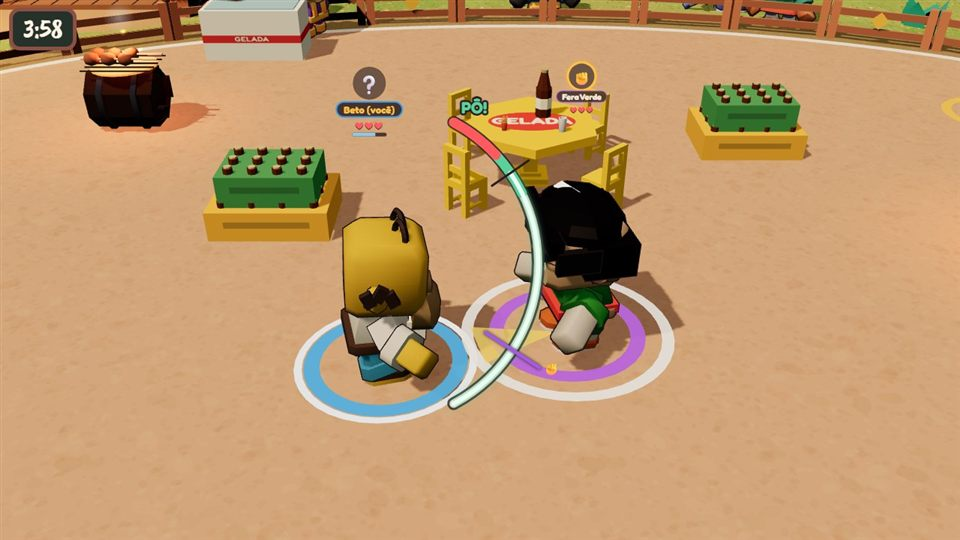
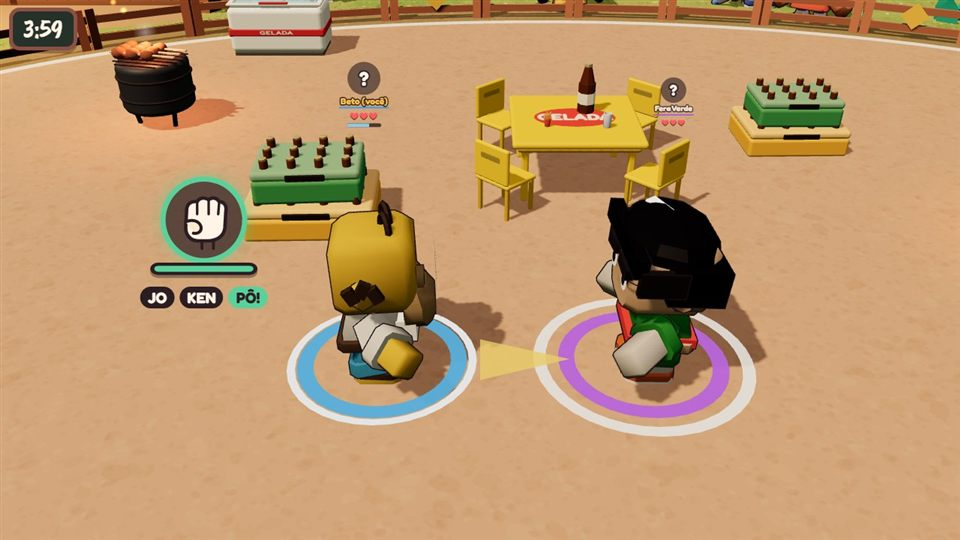
QTE com as mãos: punho batendo na mesinha no Jo-Ken-Pô, com aro amarelo/verde/vermelho no lugar da barra

diff --git a/packages/client/src/three/Game3D.ts b/packages/client/src/three/Game3D.ts
@@ -1,8 +1,9 @@
 import * as THREE from 'three';
-import { qteEnd, type CharacterId, type ExchangeEvent, type GameEvent, type PlayerView, type Rps, type Snapshot } from '@ppt/shared';
+import { type CharacterId, type ExchangeEvent, type GameEvent, type PlayerView, type Rps, type Snapshot } from '@ppt/shared';
 import type { GameConnection } from '../net/connection';
 import { Hud } from '../ui/hud';
-import { symbolPaths, symbolSvg } from '../ui/symbolIcons';
+import { symbolSvg } from '../ui/symbolIcons';
+import { BEAT_MS, QteHands } from '../ui/qteHands';
 import { toWorld } from './assets';
 import { buildArena3D, type ArenaHandles, SKY } from './arena3d';
 import { Character3D, makeBottle } from './character3d';
@@ -14,9 +15,6 @@ import { Ambient3D } from './ambient3d';
 import { MATCH_FOV, MATCH_TARGET, matchCameraPose } from './matchCamera';
 
 const HAND_COLOR: Record<CharacterId, number> = { fera: 0xf3ece8, principe: 0xf7f5ef, panca: 0xf0bf8f, sonolento: 0xf2c6a0 };
-/** Batidas do Jo-Ken-Pô: o "PÔ!" cai exatamente no impacto (QTE perfeito). */
-const BEAT_MS = 400;
-const CHANT = ['JO', 'KEN', 'PÔ!'];
 const REVEAL_MS = 1300;
 const SYM_BY_CODE: Record<string, Rps> = { Digit1: 'rock', Digit2: 'paper', Digit3: 'scissors', KeyJ: 'rock', KeyK: 'paper', KeyL: 'scissors', Numpad1: 'rock', Numpad2: 'paper', Numpad3: 'scissors' };
 
@@ -68,7 +66,7 @@ export class Game3D {
   private readonly aims = new Map<string, THREE.Group>();
   private readonly selRing: THREE.Mesh;
   private readonly beer: THREE.Group;
-  private readonly qte: SVGSVGElement;
+  private readonly qte: QteHands;
   /** Instante (tempo do servidor) em que VOCÊ apertou a Última Palavra — para congelar a barra ali. */
   private localLock: number | null = null;
   private readonly center = document.createElement('div');
@@ -126,13 +124,8 @@ export class Game3D {
     this.beer.position.copy(this.arena.beerSpot);
     this.scene.add(this.beer);
 
-    this.qte = document.createElementNS('http://www.w3.org/2000/svg', 'svg');
-    this.qte.setAttribute('class', 'qte3d');
-    // Barra curva estilo "shot meter": trilho (CEDO), fatia verde (PERFEITO), fatia vermelha (ROUBOU), enchimento,
-    // marca de quando o adversário botou (o malandro olha isso) e rótulo.
-    this.qte.innerHTML =
-      '<path class="edge"/><path class="track"/><path class="perf"/><path class="red"/><path class="fill"/><line class="tick"/><line class="opp"/><g class="oppsym"></g><text class="lbl"></text>';
-    this.overlay.appendChild(this.qte);
+    // QTE com as mãos (punho batendo no ritmo do Jo-Ken-Pô) ao lado do seu personagem.
+    this.qte = new QteHands(this.overlay);
     this.center.className = 'center3d';
     this.timer.className = 'timer3d';
     this.beerHint.className = 'beerhint3d';
@@ -798,104 +791,35 @@ export class Game3D {
     }
   }
 
-  /**
-   * Barra do QTE ao lado do seu personagem (estilo "shot meter"): enche de baixo para cima no ritmo do
-   * Jo-Ken-Pô e chega na fatia verde exatamente no "PÔ!" (instante do impacto). Ao apertar, congela e mostra a nota.
-   */
+  /** QTE com as mãos ao lado do seu personagem (ver ui/qteHands.ts). */
   private updateQte(snap: Snapshot, now: number, me: PlayerView | undefined): void {
-    const svg = this.qte;
-    svg.style.display = 'none';
     if (!me?.alive || !me.holding || me.impactAt === null) {
       this.localLock = null;
+      this.qte.hide();
       return;
     }
-    const { qte, attack } = this.conn.config;
-    const T = me.impactAt;
     const opp = snap.players.find((p) => p.id === me.targetId);
-
-    // Tamanho e posição: à direita do corpo, proporcional ao zoom da câmera.
-    const c = this.screen(this.world(me.x, me.y, 0.75));
-    const edge = this.screen(this.world(me.x, me.y, 0.75).add(new THREE.Vector3(0.75, 0, 0)));
-    const r = Math.max(46, Math.abs(edge.x - c.x) * 1.25);
-    svg.style.display = 'block';
-    svg.style.transform = `translate(${c.x}px, ${c.y}px)`;
-
-    // Tempo → posição na barra (0 = base, 1 = topo). Do início da preparação até o fim da janela.
-    const t0 = T - attack.windupMs;
-    const t1 = qteEnd(T, qte);
-    const u = (t: number) => Math.max(0, Math.min(1, (t - t0) / (t1 - t0)));
-    const A0 = (62 * Math.PI) / 180; // base (embaixo, à direita)
-    const A1 = (-62 * Math.PI) / 180; // topo
-    const pt = (k: number) => {
-      const a = A0 + (A1 - A0) * k;
-      return `${(Math.cos(a) * r).toFixed(1)} ${(Math.sin(a) * r).toFixed(1)}`;
-    };
-    const arc = (k0: number, k1: number) => (k1 <= k0 ? '' : `M ${pt(k0)} A ${r} ${r} 0 0 0 ${pt(k1)}`);
-    const set = (cls: string, d: string) => (svg.querySelector(`.${cls}`) as SVGPathElement).setAttribute('d', d);
-    set('edge', arc(0, 1));
-    set('track', arc(0, 1));
-    set('perf', arc(u(T - qte.greenBeforeMs), u(T + qte.greenAfterMs)));
-    set('red', arc(u(T + qte.greenAfterMs), 1));
-
-    // Enchimento: até agora, ou congelado onde você apertou.
-    const lockAt = this.localLock ?? me.pickedAt;
-    const fillTo = u(lockAt ?? now);
-    const fill = svg.querySelector('.fill') as SVGPathElement;
-    fill.setAttribute('d', arc(0, Math.max(0.001, fillTo)));
-    const lbl = svg.querySelector('.lbl') as SVGTextElement;
-    const tick = svg.querySelector('.tick') as SVGLineElement;
-    const [tx, ty] = pt(u(T)).split(' ').map(Number);
-    tick.setAttribute('x1', String(tx * 0.86));
-    tick.setAttribute('y1', String(ty * 0.86));
-    tick.setAttribute('x2', String(tx * 1.14));
-    tick.setAttribute('y2', String(ty * 1.14));
-    const [lx, ly] = pt(1).split(' ').map(Number);
-    lbl.setAttribute('x', String(lx + 10));
-    lbl.setAttribute('y', String(ly - 12));
-    // Quando o adversário botou: risquinho na barra + o símbolo dele (é isso que o malandro espera para ver).
-    const oppLine = svg.querySelector('.opp') as SVGLineElement;
-    const oppSym = svg.querySelector('.oppsym') as SVGGElement;
-    if (opp?.symbol && opp.pickedAt !== null) {
-      const [ox, oy] = pt(u(opp.pickedAt)).split(' ').map(Number);
-      oppLine.setAttribute('x1', String(ox * 0.8));
-      oppLine.setAttribute('y1', String(oy * 0.8));
-      oppLine.setAttribute('x2', String(ox * 1.2));
-      oppLine.setAttribute('y2', String(oy * 1.2));
-      oppLine.style.stroke = hex(opp.color);
-      // Ícone do símbolo dele, pequeno, logo depois do risquinho (desenho 64×64 reduzido).
-      oppSym.setAttribute('transform', `translate(${(ox * 1.2 + 2).toFixed(1)} ${(oy * 1.2 - 11).toFixed(1)}) scale(0.36)`);
-      if (oppSym.dataset.sym !== opp.symbol) {
-        oppSym.dataset.sym = opp.symbol;
-        oppSym.innerHTML = symbolPaths(opp.symbol);
-      }
-      oppLine.style.display = oppSym.style.display = '';
-    } else oppLine.style.display = oppSym.style.display = 'none';
-
-    let state: string;
-    let text: string;
-    if (lockAt !== null) {
-      // Mesma regra do servidor (gradePick): antes do verde = cedo; verde = perfeito; vermelho = roubou.
-      const d = lockAt - T;
-      state = d < -qte.greenBeforeMs ? 'good' : d <= qte.greenAfterMs ? 'perfect' : 'fail';
-      // Sem texto depois de apertar: a cor do enchimento já mostra (verde, amarelo ou vermelho).
-      text = '';
-    } else if (now > t1) {
-      state = 'fail';
-      text = '';
-    } else if (now > T + qte.greenAfterMs) {
-      state = 'fail live';
-      text = 'VAI DAR ROUBO!';
-    } else {
-      // Jo-Ken-Pô pequeno, no rótulo da barra.
-      const dt = T - now;
-      state = dt <= qte.greenBeforeMs ? 'perfect live' : 'early live';
-      const beat = Math.round(dt / BEAT_MS); // 2 = JO, 1 = KEN, 0 = PÔ!
-      text = dt <= qte.greenBeforeMs ? CHANT[2] : beat >= 0 && beat <= 2 ? CHANT[2 - beat] : '';
-    }
-    fill.setAttribute('class', `fill ${state}`);
-    lbl.setAttribute('class', `lbl ${state}`);
-    lbl.textContent = text;
+    // À direita do corpo, no tamanho do zoom da câmera.
+    const c = this.screen(this.world(me.x, me.y, 0.9));
+    const edge = this.screen(this.world(me.x, me.y, 0.9).add(new THREE.Vector3(0.75, 0, 0)));
+    const px = Math.abs(edge.x - c.x);
+    // Do lado oposto ao adversário, para não ficar no meio da briga.
+    const oppX = opp ? this.screen(this.world(opp.x, opp.y, 0.9)).x : c.x - 1;
+    const left = oppX > c.x;
+    this.qte.update({
+      x: c.x + (left ? -1 : 1) * px * 0.85,
+      y: c.y,
+      left,
+      scale: Math.max(0.9, Math.min(1.7, px / 48)),
+      now,
+      impactAt: me.impactAt,
+      pickedAt: this.localLock ?? me.pickedAt,
+      symbol: me.symbol,
+      opp: opp ? { symbol: opp.symbol, pickedAt: opp.pickedAt } : null,
+      cfg: this.conn.config,
+    });
   }
+
 }
 
 function easeOutBack(t: number): number {

diff --git a/packages/client/src/ui/qteHands.ts b/packages/client/src/ui/qteHands.ts
@@ -1,0 +1,114 @@
+import { gradePick, qteEnd, type GameConfig, type Grade, type Rps } from '@ppt/shared';
+import { symbolSvg } from './symbolIcons';
+
+/** Batidas do Jo-Ken-Pô: o punho bate na mesa em T − 800 (JO), T − 400 (KEN) e T (PÔ!). */
+export const BEAT_MS = 400;
+
+/** Punho de desenho (luva clara com contorno escuro), visto de lado, batendo para baixo. */
+const FIST = `<svg viewBox="0 0 64 64" aria-hidden="true">
+  <path d="M14 22 C14 15 19 12 25 13 C27 9 33 8 37 11 C40 8 46 9 48 13 C53 13 56 17 55 23 L54 40 C53 49 46 54 36 54 L26 54 C18 54 13 48 13 40 Z" fill="#fff4e6" stroke="#2b1d22" stroke-width="3.6" stroke-linejoin="round"/>
+  <path d="M25 14 L25 26 M37 12 L37 26 M48 14 L47 26" fill="none" stroke="#2b1d22" stroke-width="2.6" stroke-linecap="round"/>
+  <path d="M13 34 C20 31 27 33 29 39 C30 44 26 47 21 46" fill="#ffe9cf" stroke="#2b1d22" stroke-width="3.2" stroke-linejoin="round" stroke-linecap="round"/>
+  <path d="M30 54 L30 62 M42 54 L42 62" stroke="#2b1d22" stroke-width="3" stroke-linecap="round"/>
+</svg>`;
+
+type Zone = 'early' | 'green' | 'red';
+
+/**
+ * QTE com as mãos (v0.14, no lugar da barra curva): ao lado do seu personagem, um punho sobe e desce no ritmo
+ * do JO… KEN… PÔ! e bate numa mesinha. A cor da mesinha e do aro do punho mostra a faixa da malandragem:
+ * amarelo = cedo (o outro vê sua mão), verde = PÔ! (golpe final se ganhar), vermelho = pego roubando.
+ * Ao apertar, o punho vira o símbolo que você botou. O símbolo do adversário aparece no cantinho assim que ele bota.
+ */
+export class QteHands {
+  readonly el = document.createElement('div');
+  private readonly fist: HTMLElement;
+  private readonly table: HTMLElement;
+  private readonly beats: HTMLElement[];
+  private readonly opp: HTMLElement;
+  private shownKey = '';
+  private shownOpp: Rps | null = null;
+
+  constructor(parent: HTMLElement) {
+    this.el.className = 'qhand';
+    this.el.innerHTML = `
+      <div class="qh-opp"></div>
+      <div class="qh-stage"><div class="qh-fist"></div><div class="qh-table"></div></div>
+      <div class="qh-beats"><span>JO</span><span>KEN</span><span>PÔ!</span></div>`;
+    parent.appendChild(this.el);
+    this.fist = this.el.querySelector('.qh-fist')!;
+    this.table = this.el.querySelector('.qh-table')!;
+    this.beats = [...this.el.querySelectorAll<HTMLElement>('.qh-beats span')];
+    this.opp = this.el.querySelector('.qh-opp')!;
+  }
+
+  hide(): void {
+    this.el.style.display = 'none';
+    this.shownKey = '';
+  }
+
+  /**
+   * `x, y` = canto do personagem na tela; `scale` acompanha o zoom da câmera.
+   * `pickedAt` = quando você apertou (local, para responder na hora) ou null.
+   */
+  update(o: {
+    x: number;
+    y: number;
+    /** Fica à esquerda do ponto (o adversário está à direita). */
+    left: boolean;
+    scale: number;
+    now: number;
+    impactAt: number;
+    pickedAt: number | null;
+    symbol: Rps | null;
+    opp: { symbol: Rps | null; pickedAt: number | null } | null;
+    cfg: GameConfig;
+  }): void {
+    const { qte } = o.cfg;
+    const T = o.impactAt;
+    const end = qteEnd(T, qte);
+    this.el.style.display = '';
+    this.el.style.transform = `translate(${o.x}px, ${o.y}px) scale(${o.scale.toFixed(3)})`;
+    this.el.classList.toggle('left', o.left);
+
+    // Faixa atual (ou a nota de quando você apertou).
+    const at = o.pickedAt ?? o.now;
+    const d = at - T;
+    const zone: Zone = d < -qte.greenBeforeMs ? 'early' : d <= qte.greenAfterMs ? 'green' : 'red';
+    const grade: Grade | null = o.pickedAt !== null ? gradePick(o.pickedAt, T, qte) : o.now > end ? 'fail' : null;
+    this.el.dataset.zone = grade ? (grade === 'perfect' ? 'green' : grade === 'good' ? 'early' : 'red') : zone;
+    this.el.classList.toggle('done', grade !== null);
+
+    // Punho: sobe na preparação e bate na mesa em cada batida (JO, KEN, PÔ!); depois do PÔ! fica em cima, tremendo.
+    let lift: number;
+    const dt = T - o.now;
+    if (grade !== null) lift = 0.15;
+    else if (dt > BEAT_MS * 2 + BEAT_MS / 2) lift = 1 - Math.min(1, Math.max(0, (dt - BEAT_MS * 2.5) / 300)) * 0.4;
+    else if (dt >= 0) {
+      const k = (((dt % BEAT_MS) + BEAT_MS) % BEAT_MS) / BEAT_MS;
+      lift = Math.sin(k * Math.PI);
+    } else lift = Math.min(1, -dt / 120) * 0.35 + Math.sin(o.now / 25) * 0.04;
+    this.fist.style.transform = `translateY(${(-lift * 34).toFixed(1)}px)`;
+
+    // O punho vira o símbolo que você botou (ou "?" se a barra acabou sem nada).
+    const key = o.pickedAt !== null && o.symbol ? o.symbol : grade === 'fail' ? 'none' : 'fist';
+    if (key !== this.shownKey) {
+      this.shownKey = key;
+      this.fist.innerHTML = key === 'fist' ? FIST : key === 'none' ? '<b class="qh-none">?</b>' : symbolSvg(key as Rps);
+      this.fist.classList.toggle('picked', key !== 'fist');
+    }
+
+    // Batidas acendendo: JO e KEN quando passam, PÔ! na entrada do verde.
+    const lit = [o.now >= T - 2 * BEAT_MS, o.now >= T - BEAT_MS, o.now >= T - qte.greenBeforeMs];
+    this.beats.forEach((b, i) => b.classList.toggle('on', lit[i]));
+    // Mesinha pisca na batida.
+    this.table.classList.toggle('hit', grade === null && lift < 0.15);
+
+    // Símbolo do adversário (se ele já botou): é isso que o malandro espera para ver.
+    const os = o.opp?.symbol ?? null;
+    if (os !== this.shownOpp) {
+      this.shownOpp = os;
+      this.opp.innerHTML = os ? symbolSvg(os) : '';
+    }
+  }
+}

diff --git a/packages/client/src/style.css b/packages/client/src/style.css
@@ -162,29 +162,33 @@ kbd {
 .menulabel3d:empty { display: none; }
 .menulabel3d.me { background: var(--accent); color: #2b1d22; border-color: #2b1d22; }
 
-.qte3d { position: absolute; left: 0; top: 0; width: 1px; height: 1px; overflow: visible; }
-.qte3d > path, .qte3d > line { fill: none; stroke-linecap: round; }
-.qte3d .edge { stroke: #2b1d22; stroke-width: 17; opacity: .85; }
-.qte3d .track { stroke: #fff4e6; stroke-width: 11; opacity: .9; }
-/* v0.11: trilho = CEDO (o outro vê sua mão), verde = PERFEITO, vermelho = ROUBOU. */
-.qte3d .red { stroke: var(--bad); stroke-width: 13; }
-.qte3d .opp { stroke-width: 5; stroke-linecap: round; filter: drop-shadow(0 0 2px #2b1d22); }
-.qte3d .oppsym { filter: drop-shadow(0 1px 0 #2b1d22); }
-.qte3d .lbl.fail.live { fill: var(--bad); animation: qte-blink .25s steps(2) infinite; }
-@keyframes qte-blink { 50% { opacity: .35; } }
-.qte3d .perf { stroke: var(--good); stroke-width: 13; }
-.qte3d .tick { stroke: #2b1d22; stroke-width: 3; }
-.qte3d .fill { stroke: #ffffff; stroke-width: 6; filter: drop-shadow(0 0 3px #fff8); }
-.qte3d .fill.window { stroke: #fffbe9; }
-.qte3d .fill.perfect { stroke: #e9fff3; filter: drop-shadow(0 0 6px var(--good)); }
-.qte3d .fill.good:not(.live) { stroke: #ffe39a; filter: drop-shadow(0 0 5px var(--accent)); }
-.qte3d .fill.perfect:not(.live) { stroke: #b8ffd9; filter: drop-shadow(0 0 8px var(--good)); }
-.qte3d .fill.fail { stroke: var(--bad); filter: none; }
-.qte3d .lbl { font-weight: 700; font-size: 18px; fill: #fff4e6; stroke: #2b1d22; stroke-width: 5px; paint-order: stroke; }
-.qte3d .lbl.window { fill: var(--accent); }
-.qte3d .lbl.perfect { fill: var(--good); font-size: 22px; }
-.qte3d .lbl.good { fill: var(--accent); }
-.qte3d .lbl.fail { fill: var(--bad); }
+/* ---------- QTE com as mãos (v0.14): punho batendo no ritmo do Jo-Ken-Pô ---------- */
+.qhand { position: absolute; left: 0; top: 0; width: 86px; translate: 0 -50%; transform-origin: 0 50%; display: flex; flex-direction: column; align-items: center; gap: 4px;
+  --zone: var(--accent); pointer-events: none; }
+.qhand.left { translate: -100% -50%; transform-origin: 100% 50%; }
+.qhand.left .qh-opp { right: auto; left: -30px; }
+.qhand[data-zone="green"] { --zone: var(--good); }
+.qhand[data-zone="red"] { --zone: var(--bad); }
+.qh-stage { position: relative; width: 86px; height: 92px; }
+.qh-fist { position: absolute; left: 13px; bottom: 16px; width: 60px; height: 60px; border-radius: 50%; display: grid; place-items: center;
+  background: #2b1d22b3; box-shadow: 0 0 0 4px var(--zone), 0 0 14px var(--zone); transition: box-shadow .12s; }
+.qh-fist svg { width: 48px; height: 48px; overflow: visible; }
+.qh-fist.picked { animation: qh-pop .3s cubic-bezier(.2, 1.6, .4, 1); }
+.qh-none { font-size: 34px; color: #fff4e6; -webkit-text-stroke: 5px #2b1d22; paint-order: stroke fill; }
+@keyframes qh-pop { from { scale: .5; } }
+.qh-table { position: absolute; left: 4px; right: 4px; bottom: 4px; height: 12px; border-radius: 6px; background: var(--zone); border: 3px solid #2b1d22;
+  box-shadow: 0 3px 0 #0005; transition: background .12s; }
+.qh-table.hit { scale: 1.08 .8; }
+.qh-beats { display: flex; gap: 4px; }
+.qh-beats span { font-size: 12px; font-weight: 700; padding: 1px 6px; border-radius: 999px; color: #fff4e6; background: #2b1d22b3; opacity: .45;
+  -webkit-text-stroke: 0; transition: opacity .1s, background .1s; }
+.qh-beats span.on { opacity: 1; background: #2b1d22; }
+.qh-beats span:last-child.on { background: var(--good); color: #2b1d22; }
+.qhand.done .qh-beats { opacity: .5; }
+.qh-opp { position: absolute; right: -30px; top: -6px; width: 34px; height: 34px; }
+.qh-opp:not(:empty) { animation: qh-pop .3s cubic-bezier(.2, 1.6, .4, 1); filter: drop-shadow(0 2px 0 #0006); }
+.qh-opp:not(:empty)::before { content: 'ele:'; position: absolute; top: -14px; left: -2px; font-size: 11px; font-weight: 700; color: #fff4e6;
+  -webkit-text-stroke: 3px #2b1d22; paint-order: stroke fill; }
 
 /* Crachás dos outros mais discretos (menos poluição quando a briga está cheia). */
 .tag3d:not(.me) .fb { display: none; }

diff --git a/packages/client/src/ui/howto.ts b/packages/client/src/ui/howto.ts
@@ -31,13 +31,13 @@ const STEPS: Step[] = [
   {
     img: 'howto/4-duelo.jpg',
     title: 'Bote no verde',
-    body: 'A barra enche no JO… KEN… e chega no verde no PÔ! Aperte seu símbolo ali. Botou cedo? Todo mundo vê sua mão. Não botou nada? Apanha.',
+    body: 'O punho bate na mesinha no JO… KEN… e no PÔ! tudo fica verde: aperte seu símbolo ali. Botou cedo (amarelo)? Todo mundo vê sua mão. Não botou nada? Apanha.',
     keys: ['1 [rock]', '2 [paper]', '3 [scissors]'],
   },
   {
     img: 'howto/5-malandragem.jpg',
     title: 'Malandragem tem limite',
-    body: 'Viu a mão do outro? Dá pra virar o jogo no último instante… mas passou pro vermelho, é pego roubando e apanha.',
+    body: 'Viu a mão do outro (aparece do lado do punho)? Dá pra virar no último instante… mas se o aro ficar vermelho, é pego roubando e apanha.',
     keys: [],
   },
   {
